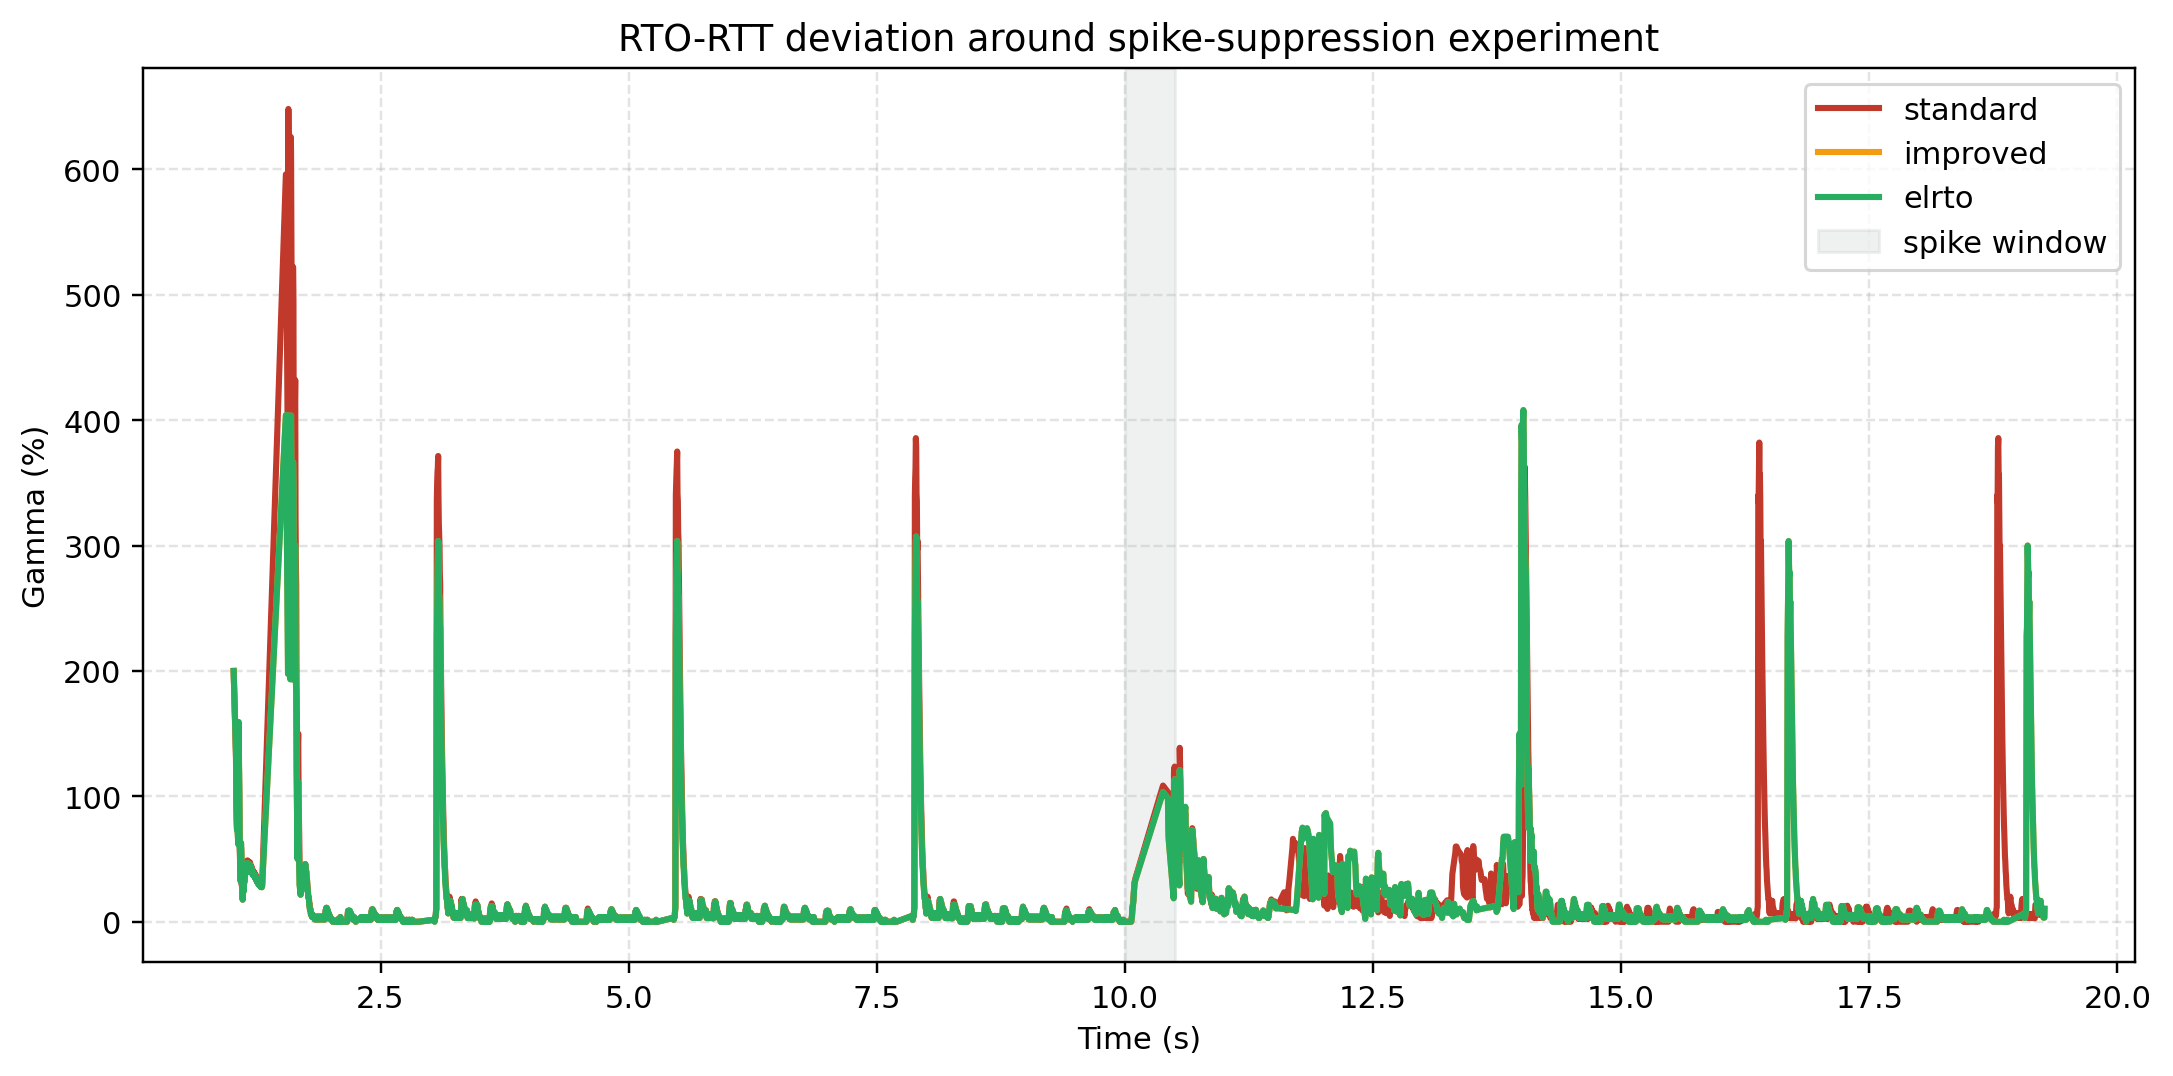
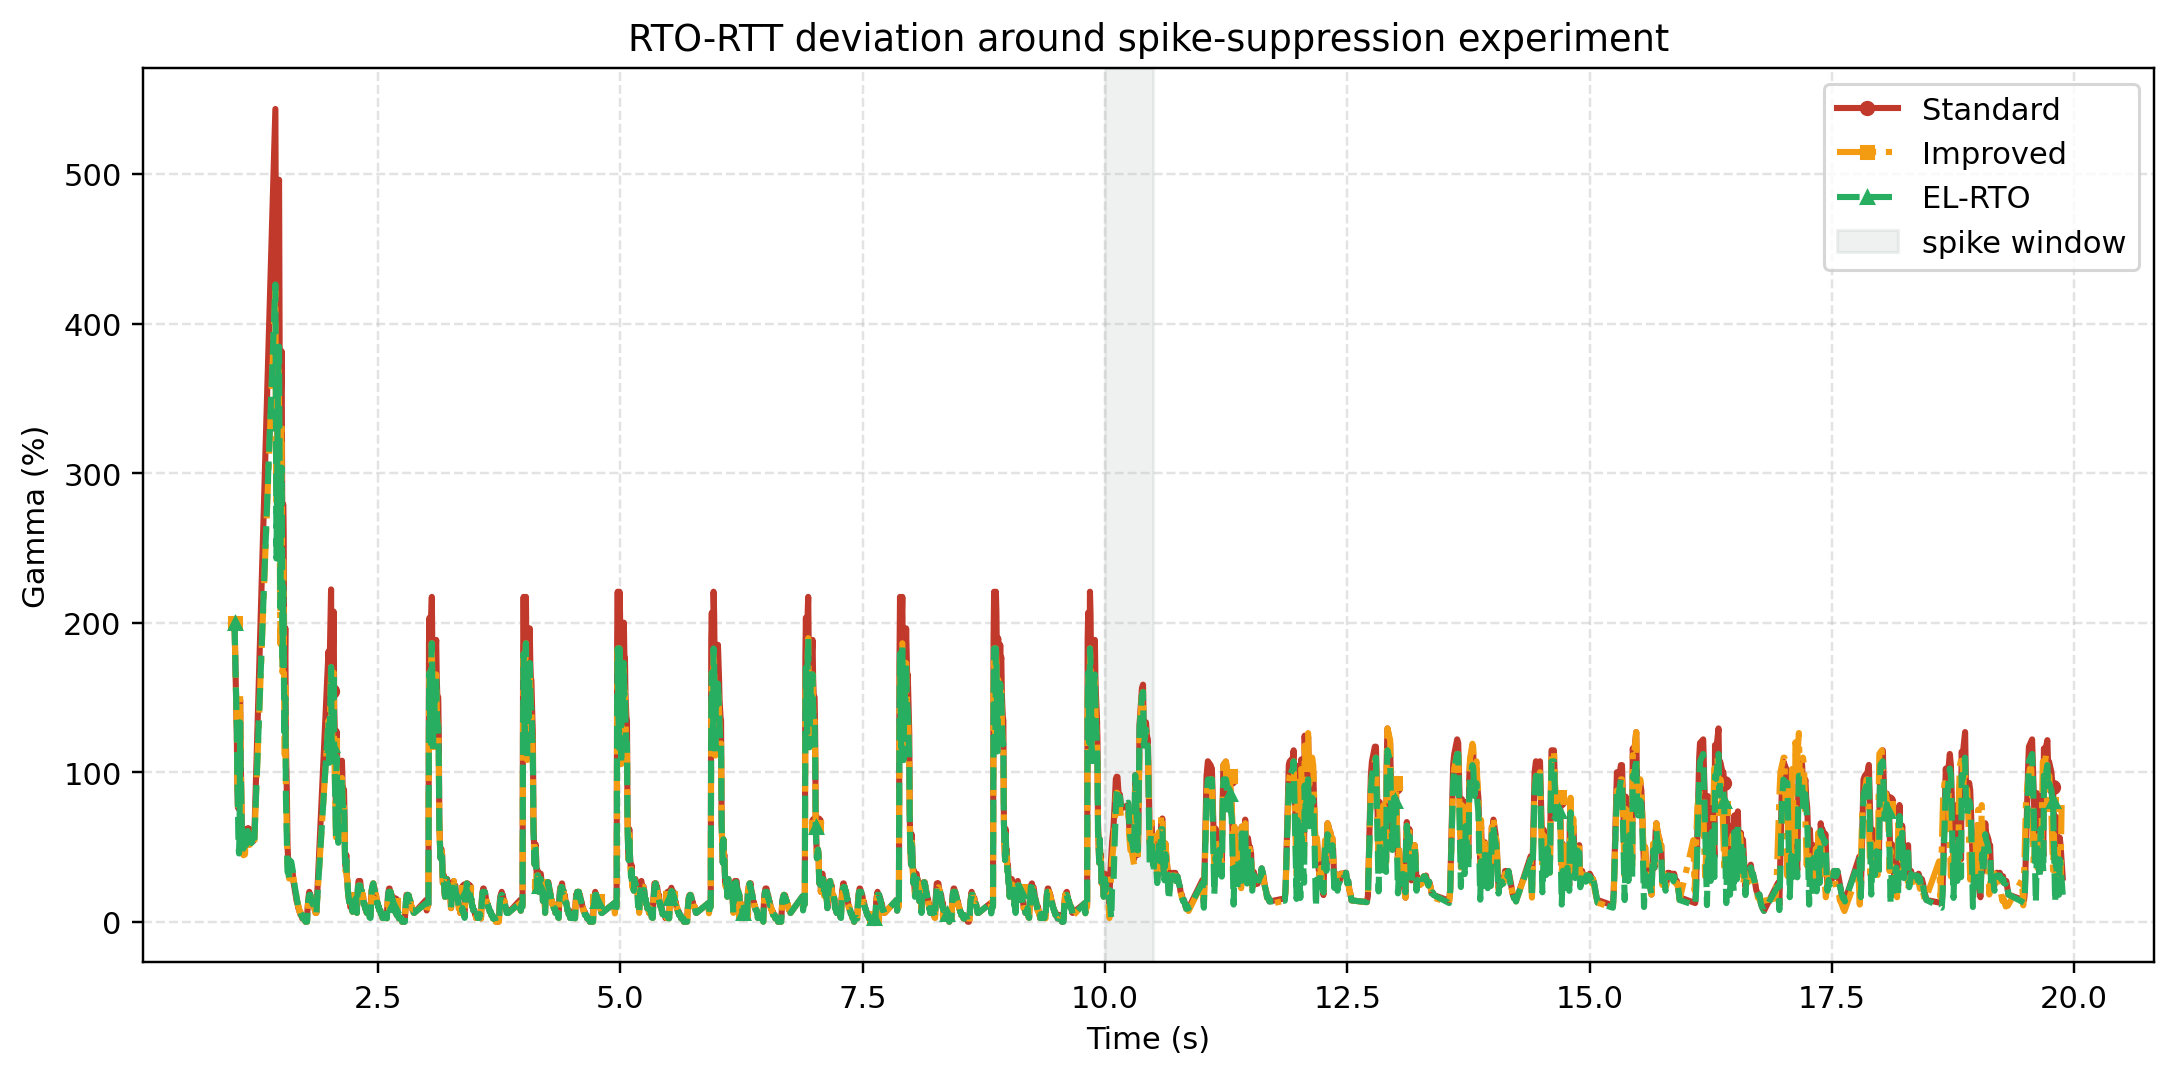
Strengthen EL-RTO spike experiment and refresh artifacts

diff --git a/scratch/rto-elrto-spike-simulation.cc b/scratch/rto-elrto-spike-simulation.cc
@@ -42,26 +42,35 @@ WireLogStreamOnNode(uint32_t nodeId, uint32_t flowId)
         return;
     }
 
+   
     NS_LOG_WARN("No TCP socket found on node " << nodeId << " for logging");
 }
+
+
+//Topology
+
+
+// TCP Sender ---- Left Router ===== Right Router ---- TCP Receiver
+//                     |                  |
+// UDP Spike Sender ---/                  \--- UDP Spike Receiver
 
 int
 main(int argc, char* argv[])
 {
     std::string mode = "standard";
-    std::string accessRate = "10Mbps";
+    std::string accessRate = "20Mbps";
     std::string accessDelay = "2.5ms";
-    std::string bottleneckRate = "5Mbps";
+    std::string bottleneckRate = "3Mbps";
     std::string bottleneckDelay = "5ms";
     uint32_t packetSize = 1000;
-    uint32_t queueSize = 20;
+    uint32_t queueSize = 5;
     double simTime = 20.0;
     double tcpStart = 1.0;
     double udpSpikeStart = 10.0;
-    double udpSpikeDuration = 0.5;
-    std::string udpSpikeRate = "30Mbps";
+    double udpSpikeDuration = 1.2;
+    std::string udpSpikeRate = "60Mbps";
     uint32_t elRtoWindow = 4;
-    double elRtoTheta = 2.0;
+    double elRtoTheta = 1.2;
 
     CommandLine cmd(__FILE__);
     cmd.AddValue("mode", "standard|improved|elrto", mode);
@@ -108,6 +117,14 @@ main(int argc, char* argv[])
         Config::SetDefault("ns3::RttMeanDeviation::ElRtoWindow", UintegerValue(elRtoWindow));
         Config::SetDefault("ns3::RttMeanDeviation::ElRtoTheta", DoubleValue(elRtoTheta));
     }
+
+    NS_LOG_UNCOND("Spike defaults tuned for clearer EL-RTO separation:"
+                  << " accessRate=" << accessRate
+                  << ", bottleneckRate=" << bottleneckRate
+                  << ", queueSize=" << queueSize
+                  << ", udpSpikeRate=" << udpSpikeRate
+                  << ", udpSpikeDuration=" << udpSpikeDuration
+                  << ", elRtoTheta=" << elRtoTheta);
 
     std::string outName = mode + "_spike_data.csv";
     g_dataFile.open(outName);

diff --git a/plot_elrto_spike.py b/plot_elrto_spike.py
@@ -19,6 +19,12 @@ COLORS = {
     "elrto": "#27ae60",
 }
 
+STYLES = {
+    "standard": {"linestyle": "-", "marker": "o", "label": "Standard"},
+    "improved": {"linestyle": "-.", "marker": "s", "label": "Improved"},
+    "elrto": {"linestyle": "--", "marker": "^", "label": "EL-RTO"},
+}
+
 
 def load_mode(mode: str) -> pd.DataFrame:
     path = FILES[mode]
@@ -36,7 +42,15 @@ def load_mode(mode: str) -> pd.DataFrame:
 def plot_metric(datasets, ycol, out, title, ylabel, spike_start=None, spike_end=None):
     plt.figure(figsize=(10, 5))
     for mode, df in datasets.items():
-        plt.plot(df["Time"], df[ycol], label=mode, color=COLORS[mode], linewidth=2)
+        plt.plot(df["Time"],
+                 df[ycol],
+                 label=STYLES[mode]["label"],
+                 color=COLORS[mode],
+                 linewidth=2,
+                 linestyle=STYLES[mode]["linestyle"],
+                 marker=STYLES[mode]["marker"],
+                 markersize=4,
+                 markevery=max(1, len(df) // 18))
     if spike_start is not None and spike_end is not None:
         plt.axvspan(spike_start, spike_end, color="#95a5a6", alpha=0.15, label="spike window")
     plt.xlabel("Time (s)")
